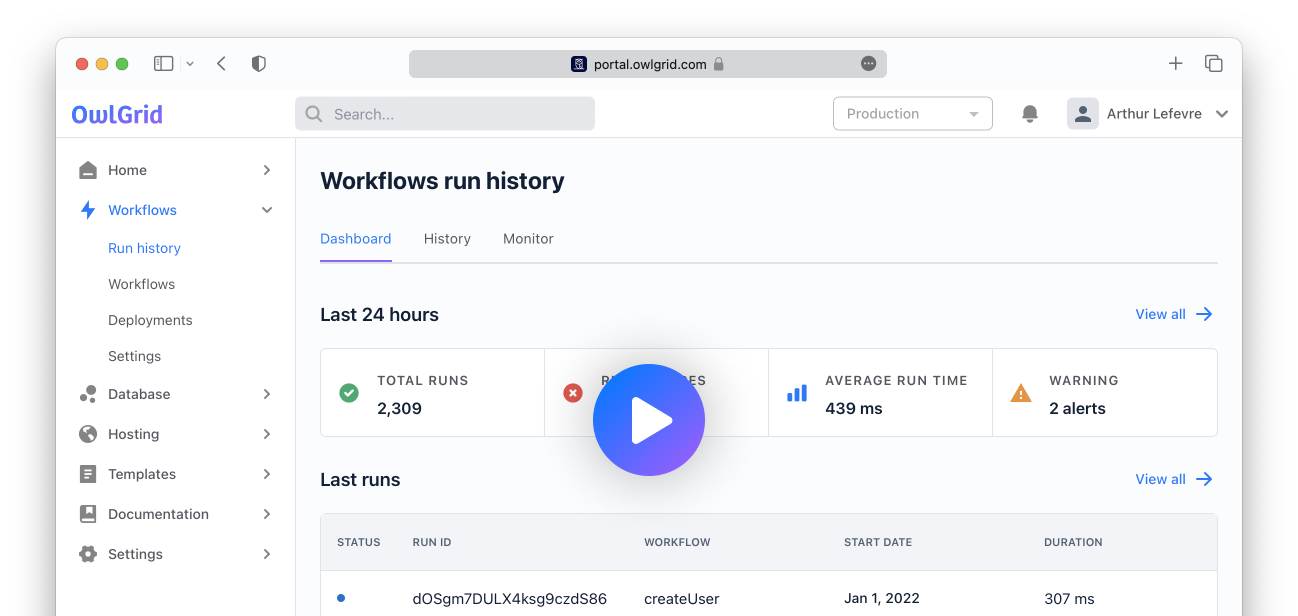
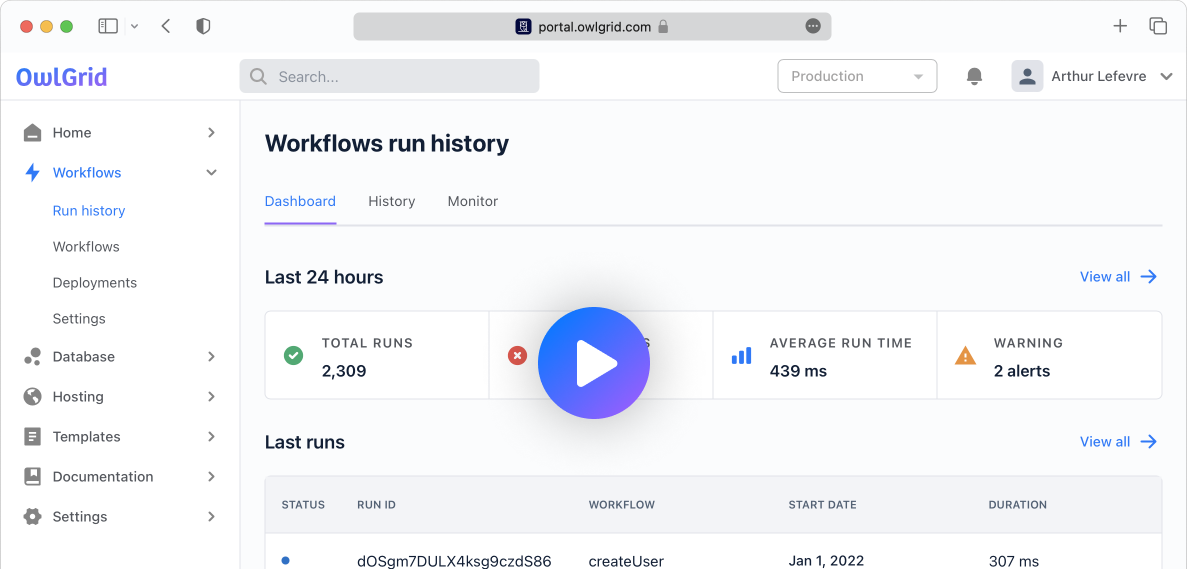
add titling effect

diff --git a/components/Header.tsx b/components/Header.tsx
@@ -56,7 +56,7 @@ export const Header = () => {
                         <div className="hidden sm:flex flex-1 justify-end lg:flex-none lg:justify-start">
                             <Link
                                 href="#contact"
-                                className="btn text-gray-500 bg-[#F1F2F4] hover:bg-gray-200 hover:text-gray-900 transition duration-150 shadow-sm"
+                                className="btn text-gray-500 bg-[#F1F2F4] hover:bg-gray-200 hover:text-gray-900 transition duration-150 shadow-sm text-lg font-medium"
                             >
                                 Stay in touch
                             </Link>
@@ -77,8 +77,7 @@ export const Header = () => {
                                     onClick={() => setMobileMenuOpen(false)}
                                 >
                                     <span className="sr-only">OwlGrid</span>
-                                    <Image className="h-12" src="/logo.svg" alt="OwlGrid logo" width={54} height={54} />
-                                    <span className="font-bold text-xl tracking-wide text-primary">OwlGrid</span>
+                                    <Image className="h-12" src="/logo_w_text.svg" alt="OwlGrid logo" width={160} height={54} />
                                 </Link>
                             </div>
                             <div className="flex">
@@ -99,7 +98,7 @@ export const Header = () => {
                                         <Link
                                             key={item.name}
                                             href={item.href}
-                                            className="block rounded-lg py-2 px-3 text-title font-semibold leading-7 text-gray-900 hover:bg-gray-400/10"
+                                            className="block rounded-lg py-2 px-3 text-title font-medium leading-7 text-gray-800 hover:bg-gray-400/10 text-lg"
                                             onClick={() => setMobileMenuOpen(false)}
                                         >
                                             {item.name}
@@ -109,7 +108,7 @@ export const Header = () => {
                                 <div className="py-6">
                                     <Link
                                         href="#contact"
-                                        className="btn flex justify-center text-gray-500 bg-[#F1F2F4] hover:bg-gray-200 hover:text-gray-900"
+                                        className="btn font-medium flex justify-center text-gray-500 bg-[#F1F2F4] hover:bg-gray-200 hover:text-gray-800 text-lg"
                                         onClick={() => setMobileMenuOpen(false)}
                                     >
                                         Stay in touch

diff --git a/components/HeroVideo.tsx b/components/HeroVideo.tsx
@@ -1,5 +1,6 @@
 import React, { FC } from 'react';
 import Backdrop from '@mui/material/Backdrop';
+import { TiltingBox } from './TiltingBox';
 
 interface HeroVideoProps {
     thumbnailSrc: string;
@@ -38,18 +39,30 @@ export const HeroVideo: FC<HeroVideoProps> = ({ thumbnailSrc, thumbnailLargeSrc:
                 >
                 </iframe>
             </Backdrop>
-            <img
-                src={thumbnailSrc}
-                alt={thumbnailAlt}
-                className="block md:hidden w-full cursor-pointer scale-100 hover:scale-105 transition duration-300 ease-in-out"
-                onClick={handleClickOpen}
-            />
-            <img
-                src={thumbnailLargeSrc}
-                alt={thumbnailAlt}
-                className="hidden md:block w-full cursor-pointer scale-100 hover:scale-105 transition duration-300 ease-in-out"
-                onClick={handleClickOpen}
-            />
+            <div className="mt-8">
+                <img
+                    src={thumbnailSrc}
+                    alt={thumbnailAlt}
+                    className="block md:hidden w-full cursor-pointer scale-100 hover:scale-105 transition duration-300 ease-in-out shadow-[0_20px_60px_-30px_rgba(0,0,0,0.9)]"
+                    onClick={handleClickOpen}
+                />
+                <div className='relative'>
+                    <img
+                        src={"/thumbnail/thumbnail-large-layer-2.png"}
+                        alt={thumbnailAlt}
+                        className="hidden md:block w-full cursor-pointer relative z-10"
+                        onClick={handleClickOpen}
+                    />
+                    <TiltingBox className="absolute top-0 left-0" data-tilt-full-page-listening>
+                        <img
+                            src={"/thumbnail/thumbnail-large-layer-1.png"}
+                            alt={thumbnailAlt}
+                            className="hidden md:block w-full cursor-pointer shadow-[0_20px_60px_-30px_rgba(0,0,0,0.9)]"
+                            onClick={handleClickOpen}
+                        />
+                    </TiltingBox>
+                </div>
+            </div>
         </>
     );
 };

diff --git a/components/Card.tsx b/components/Card.tsx
@@ -1,6 +1,7 @@
 import Image from 'next/image';
 import Link from 'next/link';
 import React from 'react';
+import { TiltingBox } from './TiltingBox';
 
 interface CardProps {
     src: string;
@@ -12,14 +13,16 @@ interface CardProps {
 
 export const Card = ({ href, src, alt, title, description }: CardProps) => {
     return (
-        <Link href={href}>
-            <div className="bg-white h-full p-8 rounded-2xl space-y-6 shadow-md hover:shadow-2xl transition duration-150">
-                <Image src={src} alt={alt} width={52} height={52} className="h-12 w-12" />
-                <div className="space-y-2">
-                    <h3 className="card-title">{title}</h3>
-                    <p className="card-description">{description}</p>
+        <TiltingBox max={6}>
+            <Link href={href}>
+                <div className="bg-white h-full p-8 rounded-2xl space-y-6 shadow-2xl hover:shadow-2xl transition duration-150">
+                    <Image src={src} alt={alt} width={52} height={52} className="h-12 w-12" />
+                    <div className="space-y-2">
+                        <h3 className="card-title">{title}</h3>
+                        <p className="card-description">{description}</p>
+                    </div>
                 </div>
-            </div>
-        </Link>
+            </Link>
+        </TiltingBox>
     );
 };

diff --git a/components/TiltingBox.tsx b/components/TiltingBox.tsx
@@ -1,0 +1,34 @@
+import { FC, useEffect, useRef } from "react";
+import VanillaTilt from "vanilla-tilt";
+
+interface TiltingBoxProps {
+    children: React.ReactNode;
+    glare?: boolean;
+    className?: string;
+    [key: string]: any;
+}
+
+export const TiltingBox: FC<TiltingBoxProps> = (props) => {
+    const { glare, max, ...rest } = props;
+    const options = {
+        scale: 1.02,
+        speed: 1000,
+        max: max ? max :1,
+        perspective: 500,
+        maxGlare: 0.01,
+        glare: glare ? true : false,
+        fullPageListening: true,
+        gyroscope: true,
+    };
+
+    const tilt = useRef(null);
+
+    useEffect(() => VanillaTilt.init(tilt.current || "", options), [options]);
+
+    //   <div data-tilt data-tilt-max="1" data-tilt-speed="400" data-tilt-perspective="500" data-tilt-max-glare="0.8" data-tilt-full-page-listening>
+
+    //        <div data-tilt data-tilt-max="10" data-tilt-speed="400" data-tilt-perspective="500" data-tilt-max-glare="0.8">
+
+
+    return <div ref={tilt} {...rest} />;
+}

diff --git a/components/CTA.tsx b/components/CTA.tsx
@@ -1,5 +1,6 @@
 import React from 'react';
 import { Button } from './Button';
+import { TiltingBox } from './TiltingBox';
 
 export const CTA = () => {
     return (
@@ -13,9 +14,11 @@ export const CTA = () => {
             </div>
 
             <div className="flex justify-center my-12">
-                <Button href="https://www.linkedin.com/company/owlgrid/" target="_blank" primary xl>
-                    LinkedIn — OwlGrid
-                </Button>
+                <TiltingBox max={10}>
+                    <Button href="https://www.linkedin.com/company/owlgrid/" target="_blank" primary xl>
+                        LinkedIn — OwlGrid
+                    </Button>
+                </TiltingBox>
             </div>
             <p className="subtitle text-center">
                 Or contact us on{' '}

diff --git a/components/Announcement.tsx b/components/Announcement.tsx
@@ -7,7 +7,7 @@ export const Announcement = () => {
         <Link href="#contact">
             <div className="primary-gradient flex justify-center items-center gap-4 py-4 text-white">
                 <BellIcon className="h-6 w-6" />
-                <p className="text-base sm:text-center text-white font-medium text-lg">Click here to stay informed about the project!</p>
+                <p className="sm:text-center text-white text-base font-medium">Click here to stay informed about the project!</p>
             </div>
         </Link>
     );

diff --git a/pages/index.tsx b/pages/index.tsx
@@ -163,7 +163,7 @@ const Home = () => {
                             <p className="subtitle-white">Everything you need to create a modern SaaS or mobile app.</p>
                         </div>
 
-                        <div className="grid grid-cols-1 sm:grid-cols-2 lg:grid-cols-4 gap-6 pt-12 pb-0">
+                        <div className="grid grid-cols-1 sm:grid-cols-2 lg:grid-cols-4 gap-6 pt-12">
                             {features.map((elem, i) => (
                                 <Card
                                     key={i}

diff --git a/styles/globals.css b/styles/globals.css
@@ -30,7 +30,7 @@
 
 @layer components {
     .wrapper {
-        @apply overflow-x-hidden container mx-auto max-w-6xl px-6 py-3;
+        @apply container mx-auto max-w-6xl px-6 py-3;
     }
 
     .primary-gradient {
@@ -65,7 +65,7 @@
     }
 
     .footer-section-link {
-        @apply font-title font-semibold text-lg text-gray-700 hover:text-gray-400 transition duration-100;
+        @apply font-title text-lg font-medium text-gray-800 hover:text-gray-400 transition duration-100;
     }
 
     .footer-legal-link {
